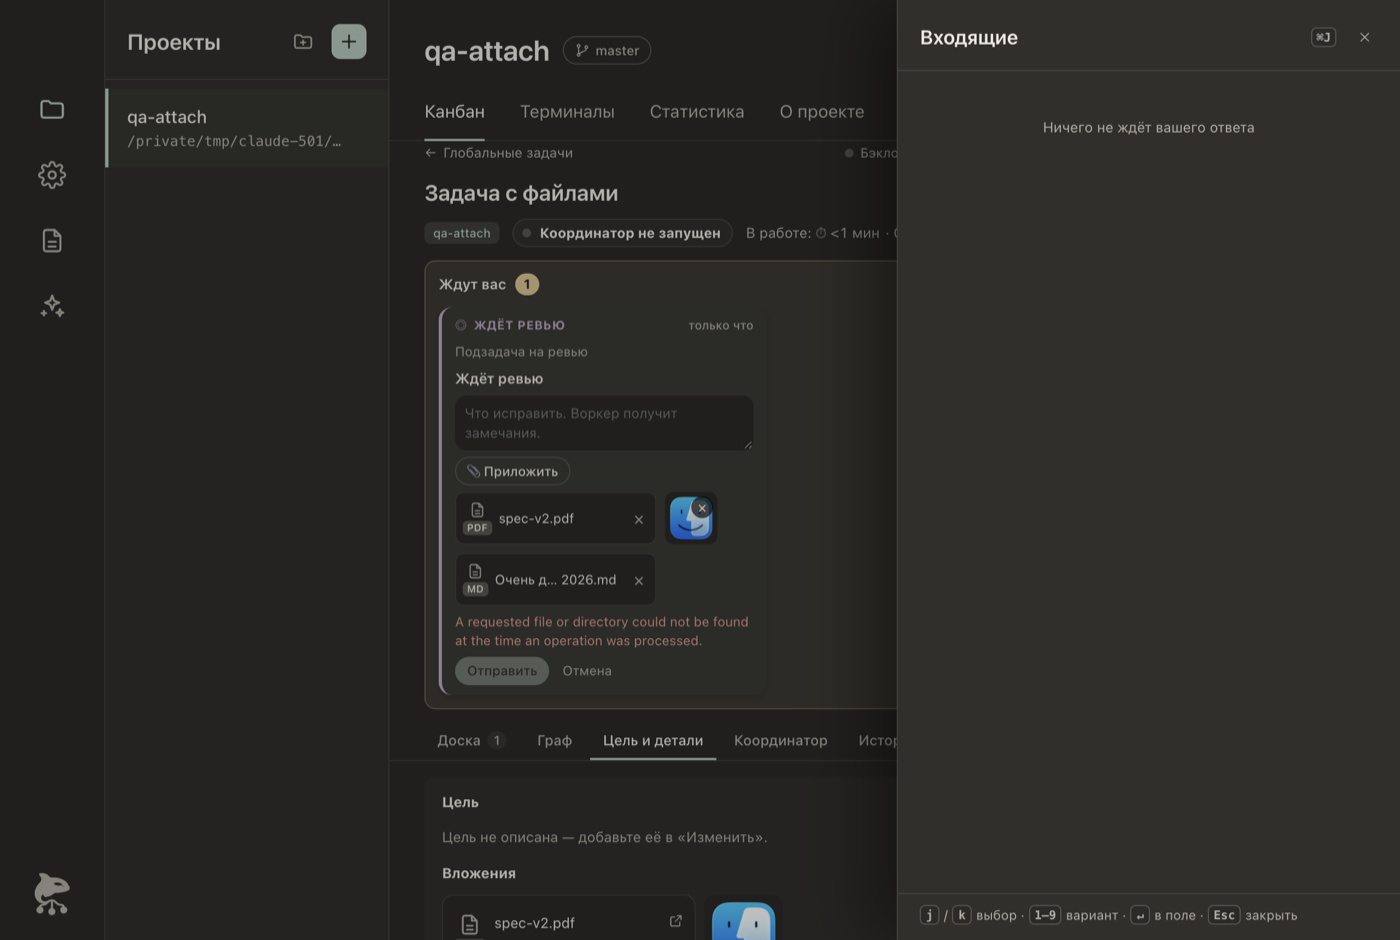
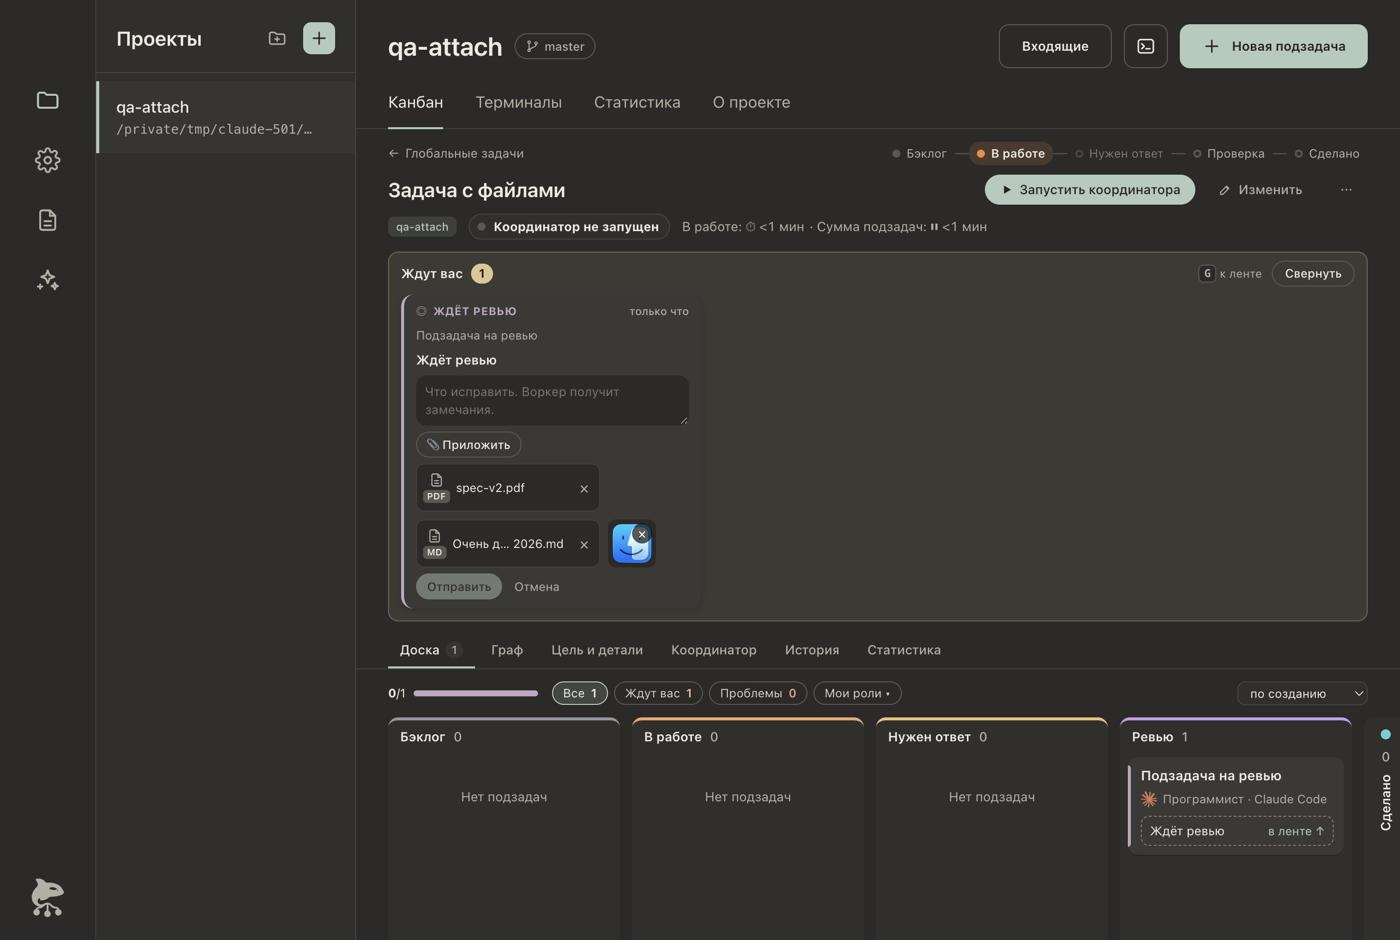
fix(renderer): вставка папки — та же ошибка, что при перетаскивании; скриншот возврата без артефакта
⌘V папки из Finder показывал «не удалось прочитать — это папка или файл пропал», а drop той же
папки — «папки не поддерживаются». Первопричина: filesFromClipboard брал все файловые элементы
буфера без webkitGetAsEntry, и папка шла в чтение, где arrayBuffer() падал NotFoundError. В Electron
webkitGetAsEntry работает и при вставке (проверено в Electron из devDependencies: isDirectory: true).

- attachmentDrafts.ts: общий splitFileItems для буфера и перетаскивания; filesFromClipboard
  возвращает folders, onPaste передаёт их в add; folderError — одна ошибка для обоих путей;
  FileItemLike — общий тип элемента (DropItemLike — его псевдоним).
- attachmentDrafts.test.ts: папка из буфера — в отказы, текст-имя не вставляется, ошибка
  совпадает с перетаскиванием (ru и en).
- docs/architecture.md: раздел Renderer вложений.
- docs/design/attachments/4-compact-return.png: переснят на изолированном стенде; на прежнем
  была английская ошибка стенда со старым кодом чтения.

diff --git a/apps/desktop/src/renderer/src/attachmentDrafts.ts b/apps/desktop/src/renderer/src/attachmentDrafts.ts
@@ -42,11 +42,19 @@ export function pasteKeys(platform: string): string {
 
 // ---------- Буфер обмена и перетаскивание ----------
 
-/** Что нужно от элемента буфера обмена (`DataTransferItem`) — чтобы тестировать без DOM. */
-export interface ClipboardItemLike {
+/**
+ * Файловый элемент буфера обмена или перетаскивания (`DataTransferItem`) — чтобы тестировать без DOM.
+ * `webkitGetAsEntry` нужен, чтобы отличить папку от файла: Chromium отдаёт папку «файлом», чтение которого падает.
+ * В Electron он работает и при вставке, не только при drop.
+ */
+export interface FileItemLike {
   kind: string
-  type: string
   getAsFile(): File | null
+  webkitGetAsEntry?(): { isDirectory: boolean; name: string } | null
+}
+
+export interface ClipboardItemLike extends FileItemLike {
+  type: string
 }
 
 export interface ClipboardLike {
@@ -54,32 +62,40 @@ export interface ClipboardLike {
   getData(format: string): string
 }
 
-/**
- * Файлы из вставки и нужно ли гасить стандартную вставку текста. Берём любые файловые элементы, не только `image/*`.
- * Файл, скопированный в Finder/Проводнике, приходит вместе с `text/plain` — своим именем (или путём): такой текст
- * в поле не вставляем. Текст рядом с картинкой, который именем файла не является (картинка из браузера с подписью),
- * вставляется как обычно. Файлов нет — `files` пуст, вставка текста стандартная.
- */
-export function filesFromClipboard(data: ClipboardLike): { files: File[]; suppressText: boolean } {
-  const files = Array.from(data.items)
-    .filter((it) => it.kind === 'file')
-    .map((it) => it.getAsFile())
-    .filter((f): f is File => f !== null)
-  if (files.length === 0) return { files, suppressText: false }
-  const text = data.getData('text/plain').trim()
-  if (!text) return { files, suppressText: true }
-  const names = new Set(files.map((f) => f.name))
-  const lines = text.split(/\r?\n/).map((l) => l.trim()).filter(Boolean)
-  const onlyNames = lines.every((line) => names.has(line.split(/[\\/]/).pop() ?? line))
-  return { files, suppressText: onlyNames }
+/** Разделить файловые элементы на файлы и имена папок (папки не принимаются — их показываем ошибкой). */
+function splitFileItems(items: readonly FileItemLike[]): { files: File[]; folders: string[] } {
+  const files: File[] = []
+  const folders: string[] = []
+  for (const it of items) {
+    if (it.kind !== 'file') continue
+    const entry = it.webkitGetAsEntry?.() ?? null
+    const file = it.getAsFile()
+    if (entry?.isDirectory) folders.push(entry.name || file?.name || '')
+    else if (file) files.push(file)
+  }
+  return { files, folders }
 }
 
-/** Элемент перетаскивания: `webkitGetAsEntry` нужен, чтобы отличить папку от файла (Chromium отдаёт папку «файлом»). */
-export interface DropItemLike {
-  kind: string
-  getAsFile(): File | null
-  webkitGetAsEntry?(): { isDirectory: boolean; name: string } | null
+/**
+ * Файлы и папки из вставки и нужно ли гасить стандартную вставку текста. Берём любые файловые элементы, не только
+ * `image/*`; папки отделяем так же, как при перетаскивании (`filesFromDrop`), чтобы человек увидел одну и ту же
+ * ошибку. Файл, скопированный в Finder/Проводнике, приходит вместе с `text/plain` — своим именем (или путём): такой
+ * текст в поле не вставляем. Текст рядом с картинкой, который именем файла не является (картинка из браузера
+ * с подписью), вставляется как обычно. Файлов и папок нет — оба списка пусты, вставка текста стандартная.
+ */
+export function filesFromClipboard(data: ClipboardLike): { files: File[]; folders: string[]; suppressText: boolean } {
+  const { files, folders } = splitFileItems(Array.from(data.items))
+  if (files.length === 0 && folders.length === 0) return { files, folders, suppressText: false }
+  const text = data.getData('text/plain').trim()
+  if (!text) return { files, folders, suppressText: true }
+  const names = new Set([...files.map((f) => f.name), ...folders])
+  const lines = text.split(/\r?\n/).map((l) => l.trim()).filter(Boolean)
+  const onlyNames = lines.every((line) => names.has(line.split(/[\\/]/).pop() ?? line))
+  return { files, folders, suppressText: onlyNames }
 }
+
+/** Элемент перетаскивания — тот же файловый элемент, что и в буфере. */
+export type DropItemLike = FileItemLike
 
 export interface DropLike {
   items?: ArrayLike<DropItemLike> | null
@@ -92,17 +108,9 @@ export interface DropLike {
  * в обработчике `drop` — после него `items` пустеют.
  */
 export function filesFromDrop(dt: DropLike | null | undefined): { files: File[]; folders: string[] } {
-  const files: File[] = []
-  const folders: string[] = []
   const items = dt?.items ? Array.from(dt.items).filter((it) => it.kind === 'file') : []
-  if (items.length === 0) return { files: dt?.files ? Array.from(dt.files) : [], folders }
-  for (const it of items) {
-    const entry = it.webkitGetAsEntry?.() ?? null
-    const file = it.getAsFile()
-    if (entry?.isDirectory) folders.push(entry.name || file?.name || '')
-    else if (file) files.push(file)
-  }
-  return { files, folders }
+  if (items.length === 0) return { files: dt?.files ? Array.from(dt.files) : [], folders: [] }
+  return splitFileItems(items)
 }
 
 /** В перетаскивании есть файлы (а не выделенный текст) — только тогда поле принимает drop. */
@@ -135,6 +143,11 @@ function shownName(name: string | undefined): string {
 
 function fail(name: string | undefined, error: string): Error {
   return new Error(t('common.attach.errNamed', { name: shownName(name), error }))
+}
+
+/** Ошибка для отвергнутой папки — одна и та же при перетаскивании и вставке. */
+export function folderError(name: string): string {
+  return t('common.attach.errNamed', { name: shownName(name), error: t('common.attach.errFolder') })
 }
 
 /** Проверка до чтения файла: пустой, слишком большой, в режиме картинок — не картинка. Ошибка — с именем файла. */
@@ -218,7 +231,7 @@ export interface AttachmentDrafts {
   reading: boolean
   /** Ошибки последнего добавления, по строке на файл (текст на языке интерфейса); сбрасывается при следующем. */
   error: string | null
-  /** Файлы из выбора, вставки или перетаскивания; `folders` — имена отвергнутых папок (`filesFromDrop`). */
+  /** Файлы из выбора, вставки или перетаскивания; `folders` — имена отвергнутых папок (`filesFromDrop`, `filesFromClipboard`). */
   add(files: readonly File[], folders?: readonly string[]): void
   /** Вешается на `onPaste` поля: файлов в буфере нет — стандартная вставка текста. */
   onPaste(e: React.ClipboardEvent): void
@@ -276,7 +289,7 @@ export function useAttachmentDrafts({ saved, locked = false, legacyImages = fals
   const add = useCallback(
     (files: readonly File[], folders: readonly string[] = []): void => {
       if (lockedRef.current || (files.length === 0 && folders.length === 0)) return
-      setErrors(folders.map((name) => t('common.attach.errNamed', { name: shownName(name), error: t('common.attach.errFolder') })))
+      setErrors(folders.map(folderError))
       if (files.length === 0) return
       setReading((n) => n + files.length)
       // По очереди: порядок вложений совпадает с порядком файлов, а проверка лимитов видит предыдущие.
@@ -292,10 +305,10 @@ export function useAttachmentDrafts({ saved, locked = false, legacyImages = fals
 
   const onPaste = useCallback(
     (e: React.ClipboardEvent): void => {
-      const { files, suppressText } = filesFromClipboard(e.clipboardData)
-      if (files.length === 0) return // обычный текст — стандартная вставка
+      const { files, folders, suppressText } = filesFromClipboard(e.clipboardData)
+      if (files.length === 0 && folders.length === 0) return // обычный текст — стандартная вставка
       if (suppressText) e.preventDefault()
-      add(files)
+      add(files, folders)
     },
     [add]
   )

diff --git a/apps/desktop/src/renderer/src/attachmentDrafts.test.ts b/apps/desktop/src/renderer/src/attachmentDrafts.test.ts
@@ -12,6 +12,7 @@ import {
   dragHasFiles,
   filesFromClipboard,
   filesFromDrop,
+  folderError,
   limitsFor,
   modeFor,
   pasteKeys,
@@ -72,8 +73,33 @@ test('filesFromClipboard: картинка с обычным текстом — 
 })
 
 test('filesFromClipboard: пустой буфер и только текст — файлов нет, вставка стандартная', () => {
-  assert.deepEqual(filesFromClipboard(clip([])), { files: [], suppressText: false })
-  assert.deepEqual(filesFromClipboard(clip([textItem], 'текст')), { files: [], suppressText: false })
+  assert.deepEqual(filesFromClipboard(clip([])), { files: [], folders: [], suppressText: false })
+  assert.deepEqual(filesFromClipboard(clip([textItem], 'текст')), { files: [], folders: [], suppressText: false })
+})
+
+// Папка из Finder при ⌘V приходит в Electron так же, как при drop: файловый элемент без типа, `webkitGetAsEntry`
+// с `isDirectory: true`, а чтение падает NotFoundError (проверено в Electron из devDependencies).
+const folderItem = (name: string): ClipboardItemLike => ({
+  kind: 'file',
+  type: '',
+  getAsFile: () => file(name, '', 128),
+  webkitGetAsEntry: () => ({ isDirectory: true, name })
+})
+
+test('filesFromClipboard: папка — в отказы по имени, как при перетаскивании; текст-имя не вставляется', () => {
+  const a = file('a.txt', 'text/plain')
+  const pasteItem: ClipboardItemLike = { ...fileItem(a), webkitGetAsEntry: () => ({ isDirectory: false, name: 'a.txt' }) }
+  assert.deepEqual(filesFromClipboard(clip([folderItem('logs')])), { files: [], folders: ['logs'], suppressText: true })
+  assert.deepEqual(filesFromClipboard(clip([textItem, pasteItem, folderItem('logs')], 'a.txt\nlogs')), {
+    files: [a],
+    folders: ['logs'],
+    suppressText: true
+  })
+  // Та же ошибка, что при перетаскивании той же папки.
+  const dropped = filesFromDrop({ items: [{ kind: 'file', getAsFile: () => file('logs'), webkitGetAsEntry: () => ({ isDirectory: true, name: 'logs' }) }] })
+  assert.deepEqual(filesFromClipboard(clip([folderItem('logs')])).folders, dropped.folders)
+  assert.equal(folderError('logs'), `logs: ${t('common.attach.errFolder')}`)
+  inEnglish(() => assert.equal(folderError('logs'), 'logs: folders are not supported — zip it or attach the files'))
 })
 
 // ---------- Перетаскивание ----------

diff --git a/docs/architecture.md b/docs/architecture.md
@@ -1007,7 +1007,8 @@ Claude Code `BASH_DEFAULT_TIMEOUT_MS=1800000`, `BASH_MAX_TIMEOUT_MS=3600000` (д
   нет ни метода, ни хендлера — `stale`, «перезапустите приложение» (у цели координатора и глобальной задачи, где картинки были и раньше, — `imagesOnly`).
 - **Renderer**: одна логика вложений на все формы — `renderer/src/attachmentDrafts.ts` (бывшие `imageDrafts.ts`, `imagePaste.ts`,
   `useImageAttachments.ts`): отбор файлов из буфера (`filesFromClipboard` — любые файловые элементы; `text/plain`, совпадающий с именами
-  файлов, как у файла из Finder/Проводника, в поле не вставляется) и перетаскивания (`filesFromDrop`: папка — отказ по `webkitGetAsEntry`),
+  файлов, как у файла из Finder/Проводника, в поле не вставляется) и перетаскивания (`filesFromDrop`); папка в обоих случаях — отказ
+  по `webkitGetAsEntry` с одной ошибкой `folderError` (в Electron он работает и при вставке, без него чтение папки падает NotFoundError),
   проверки до и после чтения (ошибка — с именем файла, лимиты считаются вместе с сохранёнными у задачи), хук `useAttachmentDrafts` (в IPC
   уходит `{mime, data, name}`). Модель чипа — `attachmentChip.ts` (бейдж расширения, обрезка имени посередине, размер через `formatBytes`,
   `openable` — `attachmentOpenable` из `shared/showcase.ts`, тот же список проверяет main). Компоненты: общее поле `AttachmentField.tsx`
